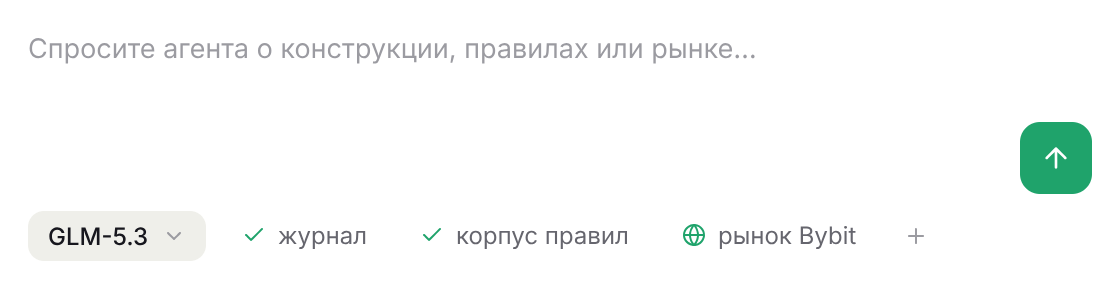
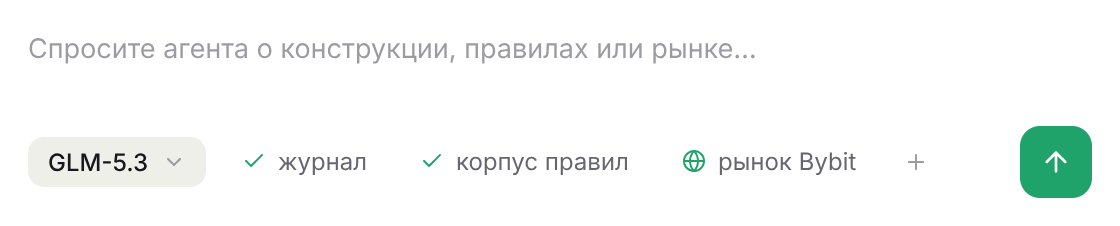
feat: relocate Send/Stop button to toolbar and update task status in documentation

diff --git a/openspec/changes/revise-design-screens/tasks.md b/openspec/changes/revise-design-screens/tasks.md
@@ -21,5 +21,5 @@
 
 ## 4. Композер и документация
 
-- [ ] 4.1 «Композер/Агент» `Z14sH`: многострочное поле ~2 строки с авторостом до ~8; кнопку Send/Stop перенести из правого нижнего угла поля в тулбар под полем — в один ряд с чипами BindChip/ModelChip/Sources (чипы слева, кнопка справа). Проверить: `scenario-design-composer-multiline`.
+- [x] 4.1 «Композер/Агент» `Z14sH`: многострочное поле ~2 строки с авторостом до ~8; кнопку Send/Stop перенести из правого нижнего угла поля в тулбар под полем — в один ряд с чипами BindChip/ModelChip/Sources (чипы слева, кнопка справа). Проверить: `scenario-design-composer-multiline`.
 - [x] 4.2 Концепция `.wf-research/ui-concept/concept.md`: поправить §1 (геометрия панелей локально браузера), §2 (resizable-панели, иконочная колонка, контекстная правая), §3 (правая область без подсказок, фильтр, кнопка прохода, повторный/двойной клик), §4 (Meta-строка, меню «Параметры», чаты в контекстной панели), §10 (модалка ~80 vh, поле на всю высоту). Сверить GLOSSARY.md с решениями сессии.
